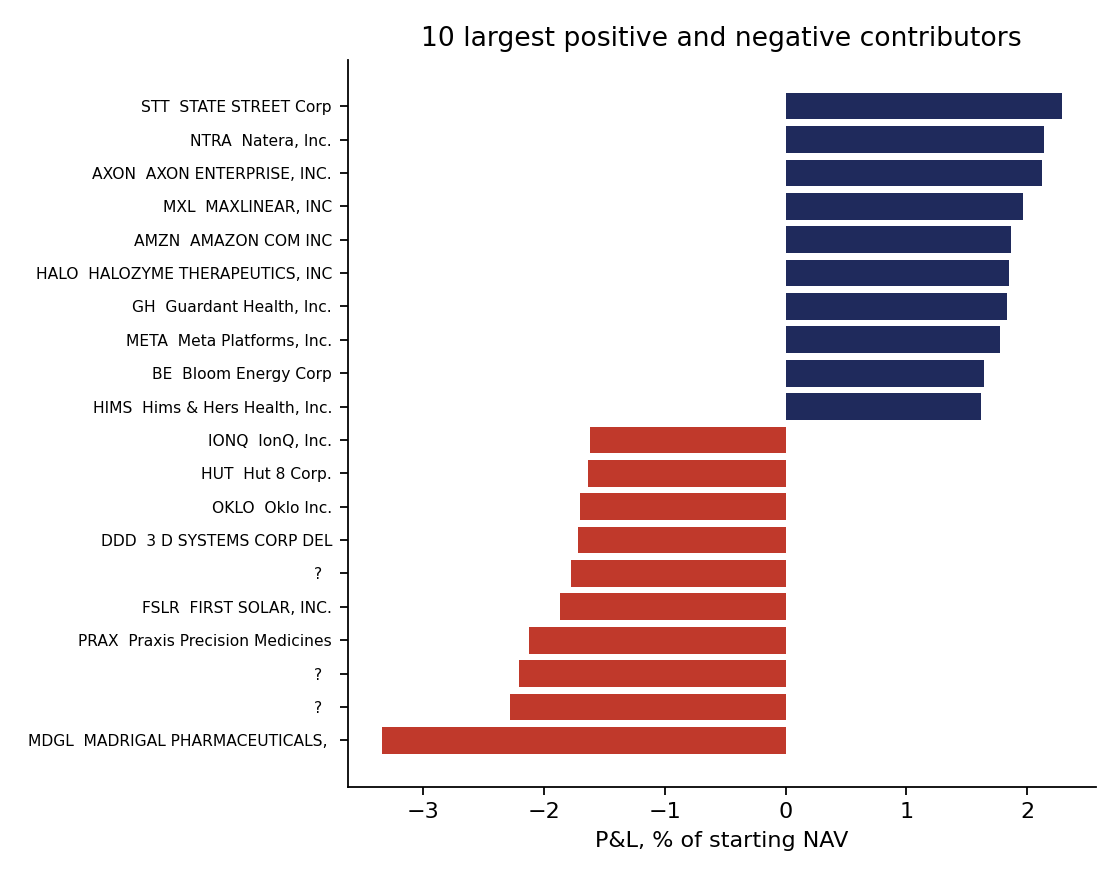
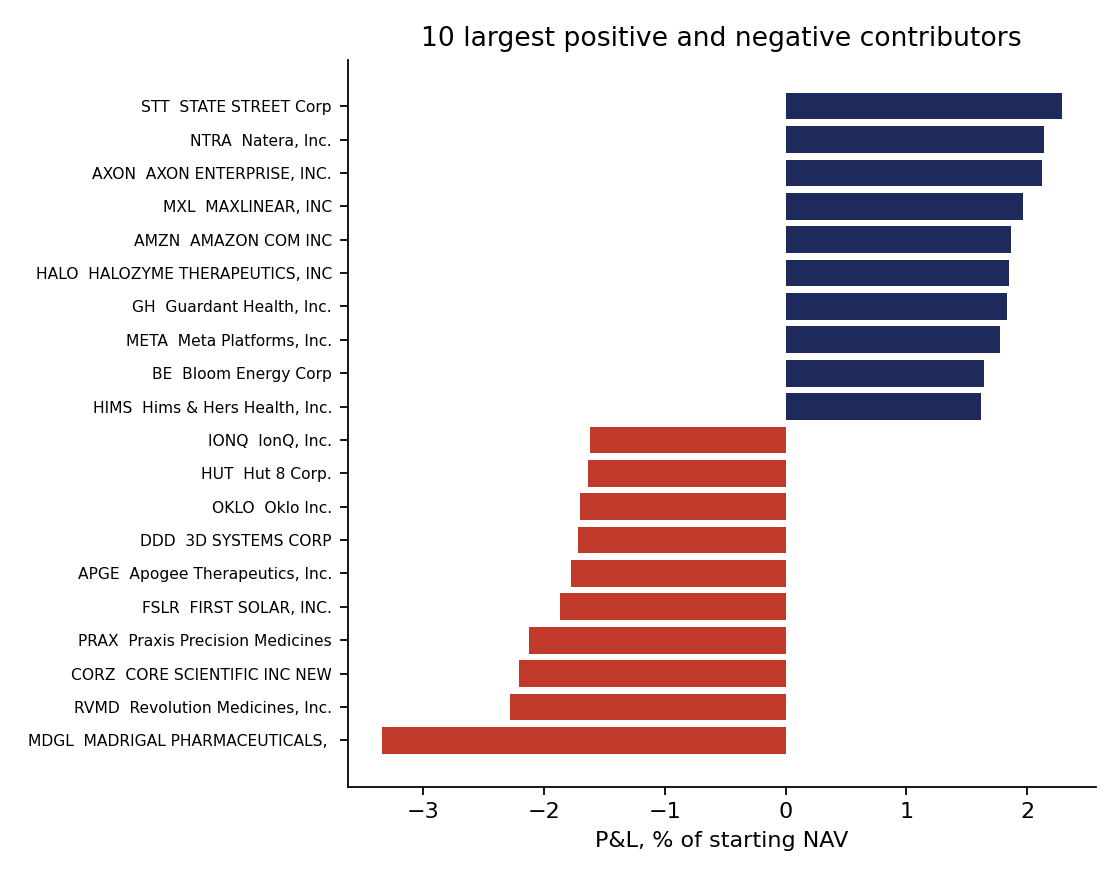
Name every holding from its nearest labelled month, and record which month

Changed region(s): [[0.0625, 0.583, 0.2812, 0.675], [0.0625, 0.7364, 0.2812, 0.8284], [0.125, 0.7364, 0.2812, 0.767]]

diff --git a/06_final/f10_register.py b/06_final/f10_register.py
@@ -18,6 +18,18 @@ import pandas as pd
 sys.path.insert(0, str(Path(__file__).resolve().parent))
 import fconfig as F  # noqa: E402
 
+
+def label_table():
+    """Ticker and name per permno: the latest LABELLED month in the panel.
+    The panel leaves some stock-months unlabelled on purpose; a holding is
+    named from its nearest labelled month, as in round 1 (04_build_portfolio
+    fill_labels), and label_month says which month that was."""
+    from common import config as C
+    pnl_ = pd.read_parquet(C.MODEL_TABLE, columns=["permno", "target_month", "ticker", "company_name"])
+    pnl_ = pnl_.dropna(subset=["ticker"]).sort_values("target_month")
+    return pnl_.drop_duplicates("permno", keep="last").set_index("permno")[
+        ["ticker", "company_name", "target_month"]].rename(columns={"target_month": "label_month"})
+
 HEADLINE = "test_M"
 
 ORIGIN = {
@@ -89,9 +101,7 @@ def holdings(tag=HEADLINE):
     d = pd.read_parquet(rd / "daily.parquet")
     p = pd.read_parquet(rd / "pnl.parquet")
     sig = pd.read_parquet(F.DATA / "signal_test.parquet")
-    names = (sig.sort_values("target_month")
-                .drop_duplicates("permno", keep="last")
-                .set_index("permno")[["ticker", "company_name"]])
+    names = label_table()
     # a position earning on day k+1 is the book held after the close of day k
     p = p.copy()
     p["book_date"] = d["date"].values[(p["di"] - 1).clip(lower=0).astype(int)]

diff --git a/06_final/f06_report.py b/06_final/f06_report.py
@@ -32,6 +32,18 @@ import pandas as pd  # noqa: E402
 sys.path.insert(0, str(Path(__file__).resolve().parent))
 import fconfig as F  # noqa: E402
 
+
+def label_table():
+    """Ticker and name per permno: the latest LABELLED month in the panel.
+    The panel leaves some stock-months unlabelled on purpose; a holding is
+    named from its nearest labelled month, as in round 1 (04_build_portfolio
+    fill_labels), and label_month says which month that was."""
+    from common import config as C
+    pnl_ = pd.read_parquet(C.MODEL_TABLE, columns=["permno", "target_month", "ticker", "company_name"])
+    pnl_ = pnl_.dropna(subset=["ticker"]).sort_values("target_month")
+    return pnl_.drop_duplicates("permno", keep="last").set_index("permno")[
+        ["ticker", "company_name", "target_month"]].rename(columns={"target_month": "label_month"})
+
 NAVY, RED, GREY, BLUE = "#1f2a5c", "#c0392b", "#888888", "#2f6690"
 
 
@@ -266,7 +278,7 @@ def exhibits(run, sig, outdir, m):
     fig.tight_layout(); fig.savefig(fig_dir / "exposures.png", dpi=160); plt.close(fig)
 
     # 5 top/bottom 10 by average weight; 6 contributors
-    names = sig.drop_duplicates("permno", keep="last").set_index("permno")[["ticker", "company_name"]]
+    names = label_table()
     navs = d["nav"].shift(1).fillna(F.FINAL["start_nav"]).values
     pnl = pnl.copy()
     pnl["w"] = pnl["x"] / navs[pnl["di"].astype(int)]
